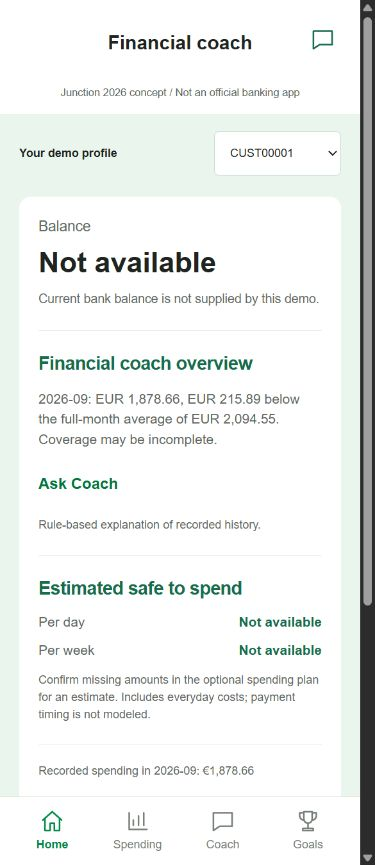
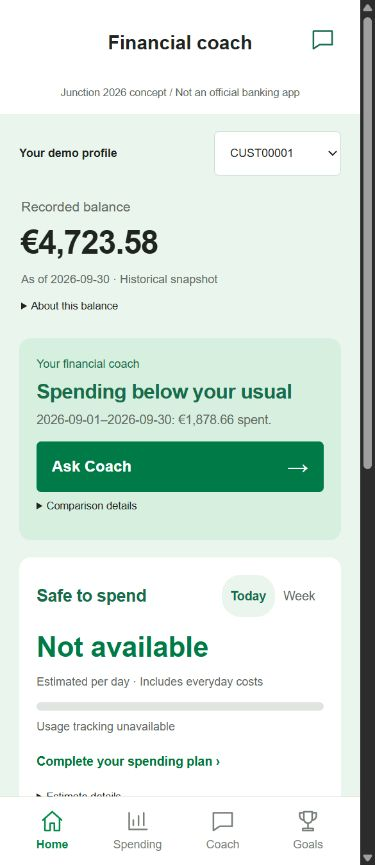
Connect compact Home to dated backend summaries

diff --git a/frontend/src/HomeSummary.jsx b/frontend/src/HomeSummary.jsx
@@ -1,0 +1,94 @@
+import React, { useState } from 'react';
+import { ResponsiveContainer, BarChart, Bar, XAxis, Tooltip, ReferenceLine } from 'recharts';
+
+const date = value => value ? value.slice(0, 10) : 'Date unavailable';
+
+export default function HomeSummary({ data, money, openCoach, onSpending, onPlan }) {
+  const [range, setRange] = useState('Today');
+  const balances = data['recorded-balances'];
+  const comparison = data['spending-comparison'];
+  const budget = data.budget;
+  const history = data['spending-history'];
+  const headlines = { below: 'Spending below your usual', above: 'Spending above your usual', equal: 'Spending matches your usual' };
+  const headline = headlines[comparison?.status] || 'Let’s explore your spending';
+  const allowance = range === 'Today' ? budget?.daily_eur : budget?.weekly_eur;
+  return <>
+    <section className="recorded-balance"><h1>Recorded balance</h1>
+      {balances?.simultaneous_total_eur != null ? <>
+        <strong>{money(balances.simultaneous_total_eur)}</strong>
+        <p className="fine">As of {date(balances.total_recorded_at)} · Historical snapshot</p>
+      </> : balances?.accounts?.length ? balances.accounts.map((account, index) => <div key={account.account_id}>
+        <p className="fine">Account {index + 1}</p><strong>{money(account.balance_eur)}</strong>
+        <p className="fine">As of {date(account.recorded_at)} · Historical snapshot</p>
+      </div>) : <><strong>Not available</strong><p className="fine">No recorded balance available.</p></>}
+      <details><summary>About this balance</summary><p>{balances?.note || 'This is not a live bank balance.'}</p>
+        {balances?.simultaneous_total_eur == null && <p>{balances?.total_unavailable_reason}</p>}</details>
+    </section>
+    <section className="coach-overview"><p className="coach-kicker">Your financial coach</p><h2>{headline}</h2>
+      <p>{comparison?.comparison && comparison?.baseline && headlines[comparison.status]
+        ? `${date(comparison.comparison.start)}–${date(comparison.comparison.end)}: ${money(comparison.comparison.spending_eur)} spent.`
+        : 'A comparison is unavailable; explore the spending we have recorded.'}</p>
+      <button className="primary coach-action" onClick={() => openCoach('Spending by category')}>Ask Coach <span>→</span></button>
+      <details><summary>Comparison details</summary>
+        <p>Prior-period average: {money(comparison?.baseline?.average_spending_eur)}.</p>
+        <p>Signed difference: {money(comparison?.difference_eur)}.</p>
+        <p>{comparison?.baseline && `${comparison.baseline.start}–${comparison.baseline.end}, `}
+          {comparison?.baseline?.period_count != null && `${comparison.baseline.period_count} prior periods.`}</p>
+        <p>{comparison?.note || comparison?.insufficient_data_reason || 'Comparison data is unavailable.'}</p>
+        <p>Rule-based demo. Historical spending is not a measure of goal progress.</p>
+      </details>
+    </section>
+    <section className="allowance-summary"><div className="allowance-heading"><h2>Safe to spend</h2>
+      <div className="allowance-toggle">{['Today', 'Week'].map(value =>
+        <button key={value} aria-pressed={range === value} onClick={() => setRange(value)}>{value}</button>)}</div></div>
+      <strong className="allowance-amount">{money(allowance)}</strong>
+      <p className="fine">Estimated {range === 'Today' ? 'per day' : 'per week'} · Includes everyday costs</p>
+      <div className="allowance-track" aria-hidden="true" />
+      <p className="fine">Usage tracking unavailable</p>
+      <button className="text-button" onClick={onPlan} disabled={!data.assumptions}>
+        {allowance == null ? 'Complete your spending plan' : 'Review your spending plan'} ›</button>
+      <details><summary>Estimate details</summary>
+        <p>{budget?.status === 'estimated' ? `Based on your confirmed ${budget.assumptions.horizon_days}-day plan.`
+          : 'All six planning amounts need confirmation. Blank amounts remain unknown.'}</p>
+        <p>Today selects the daily estimate, not a live remaining balance. Payment timing is not modeled.
+          No consumed fraction is available, so the neutral track does not show progress.</p>
+      </details>
+      {budget?.shortfall_eur > 0 && <p role="alert">Bills and reserve shortfall: {money(budget.shortfall_eur)}</p>}
+    </section>
+    <section className="home-chart"><div className="section-title"><h2>Spending history</h2>
+      <button className="text-button" onClick={onSpending}>View all ›</button></div>
+      {history?.periods?.length ? <>
+        <p className="fine">{history.periods[0].start}–{history.periods.at(-1).end} · Recorded {history.period} periods</p>
+        <div role="img" aria-label="Recorded spending bars with historical average and optional chart target">
+          <ResponsiveContainer width="100%" height={150}>
+            <BarChart data={history.periods} margin={{ top: 8, right: 4, left: 4, bottom: 0 }}>
+              <XAxis dataKey="start" tick={{ fontSize: 10 }} tickLine={false} axisLine={false} minTickGap={45} />
+              <Tooltip formatter={value => money(value)} />
+              <Bar dataKey="spending_eur" name="Recorded spending" fill="#008c45" radius={[3, 3, 0, 0]} />
+              {history.historical_average_eur != null && <ReferenceLine y={history.historical_average_eur}
+                stroke="#94662e" strokeDasharray="4 4" ifOverflow="extendDomain" />}
+              {history.budget_target_eur != null && <ReferenceLine y={Number(history.budget_target_eur)}
+                stroke="#3653a0" strokeDasharray="3 3" ifOverflow="extendDomain" />}
+            </BarChart>
+          </ResponsiveContainer>
+        </div><p className="fine">Dashed: historical average {money(history.historical_average_eur)}
+          {history.budget_target_eur != null && ` · Target ${money(history.budget_target_eur)}`}</p>
+      </> : <p className="fine">Spending history unavailable.</p>}
+      <button className="text-button" onClick={onSpending}>See where it went ›</button>
+    </section>
+  </>;
+}
+
+export function PlanningContext({ suggestions, money }) {
+  const labels = { income: 'Income', housing_utilities: 'Housing and utilities', food: 'Food', everyday_purchases: 'Everyday purchases' };
+  return <details className="planning-context"><summary>Historical context for your review</summary>
+    <p>Monthly observations, not confirmed future amounts. Food overlaps everyday purchases; do not add them together.</p>
+    {suggestions ? Object.entries(suggestions.observations).map(([key, observation]) => <div key={key}>
+      <h3>{labels[key]}</h3><p>{money(observation.average_monthly_eur)} per recorded month</p>
+      <p className="fine">{observation.source_period
+        ? `${observation.source_period.start}–${observation.source_period.end}` : 'Period unavailable'} · {observation.confidence} confidence</p>
+      <p className="fine">{observation.unavailable_reason || observation.limitations.join(' ')}</p>
+    </div>) : <p>Historical suggestions unavailable. Enter only amounts you can confirm.</p>}
+    <p className="fine">Amounts are not scaled to your planning period or copied into the form automatically.</p>
+  </details>;
+}

diff --git a/frontend/src/main.jsx b/frontend/src/main.jsx
@@ -4,6 +4,7 @@ import { ResponsiveContainer, BarChart, Bar, XAxis, YAxis, Tooltip, ReferenceLin
 import './style.css';
 import Coach from './Coach';
 import Icon from './Icon';
+import HomeSummary, { PlanningContext } from './HomeSummary';
 
 const money = value => value == null ? 'Not available' : new Intl.NumberFormat('en-FI', {
   style: 'currency', currency: 'EUR', maximumFractionDigits: 2,
@@ -29,10 +30,11 @@ const planningFields = [
   ['monthly_budget_eur', 'Monthly chart target (optional)'],
 ];
 
-function PlanningForm({ assumptions, busy, onSave }) {
-  return <details className="planning"><summary>Optional spending plan</summary><section><h2>Confirm your spending plan</h2>
+function PlanningForm({ assumptions, suggestions, busy, onSave }) {
+  return <details className="planning" id="spending-plan"><summary>Optional spending plan</summary><section><h2>Confirm your spending plan</h2>
     <p>All amounts cover the same planning period. Enter zero where appropriate; blank means unknown.
       Do not include income already held in accessible funds. Confirm you can pay bills before everyday spending starts.</p>
+    <PlanningContext suggestions={suggestions} money={money} />
     <form onSubmit={event => {
       event.preventDefault();
       const values = new FormData(event.currentTarget);
@@ -90,22 +92,14 @@ function App() {
     if (!customer) return;
     const controller = new AbortController();
     setData({}); setError(''); setAnalysis(null);
-    ['spending', 'spending-history', 'budget', 'goals', 'assumptions', 'mortgages'].forEach(resource => {
-      const query = resource === 'spending-history' ? `?period=${period.toLowerCase()}` : '';
+    const resources = ['spending', 'spending-history', 'budget', 'goals', 'assumptions', 'mortgages',
+      'recorded-balances', 'spending-comparison', 'planning-suggestions'];
+    resources.forEach(resource => {
+      const query = ['spending-history', 'spending-comparison'].includes(resource) ? `?period=${period.toLowerCase()}` : '';
       api(`customers/${customer}/${resource}${query}`, { signal: controller.signal })
         .then(result => setData(old => ({ ...old, [resource]: result })))
         .catch(e => { if (e.name !== 'AbortError') setError(e.message); });
     });
-    return () => controller.abort();
-  }, [customer, period, reload]);
-  useEffect(() => {
-    if (!customer) return;
-    const controller = new AbortController();
-    api(`customers/${customer}/coach`, {
-      method: 'POST', headers: { 'Content-Type': 'application/json' }, signal: controller.signal,
-      body: JSON.stringify({ question: 'Spending vs historical average' }),
-    }).then(result => setData(old => ({ ...old, coachOverview: result.text })))
-      .catch(() => { /* Keep the unavailable overview fallback without blocking other sections. */ });
     return () => controller.abort();
   }, [customer, period, reload]);
   async function createGoal(event) {
@@ -143,7 +137,7 @@ function App() {
     } catch (e) { setError(e.message); } finally { setBusy(false); }
   }
   function openCoach(question = '') { setCoachQuestion(question); setPage('Coach'); }
-  const spending = data.spending;
+
   const history = data['spending-history'];
   const points = history?.periods;
   return <div className="app">
@@ -161,33 +155,16 @@ function App() {
       {error && <div className="error" role="alert">{error}<button disabled={busy} onClick={() => setReload(reload + 1)}>Try again</button></div>}
       {!customer && !error && <p role="status">Loading your profiles…</p>}
       {page === 'Home' && <>
-        <div className="home-overview">
-          <section className="home-balance"><h1>Balance</h1><strong>Not available</strong>
-            <p>Current bank balance is not supplied by this demo.</p></section>
-          <section className="home-coach"><h2>Financial coach overview</h2>
-            <p>{data.coachOverview || 'A historical comparison is not available yet. You can still explore recorded spending.'}</p>
-            <button className="text-button" onClick={() => openCoach('Spending vs historical average')}>Ask Coach</button>
-            <p className="fine">Rule-based explanation of recorded history.</p></section>
-          <section className="home-allowance"><h2>Estimated safe to spend</h2>
-            <p className="allowance-line">Per day <strong>{money(data.budget?.daily_eur)}</strong></p>
-            <p className="allowance-line">Per week <strong>{money(data.budget?.weekly_eur)}</strong></p>
-            <p className="fine">{data.budget?.status === 'estimated'
-              ? `Based on your confirmed ${data.budget.assumptions.horizon_days}-day plan.`
-              : 'Confirm missing amounts in the optional spending plan for an estimate.'}
-              {' '}Includes everyday costs; payment timing is not modeled.</p>
-            {data.budget?.shortfall_eur > 0 &&
-              <p role="alert">Bills and reserve shortfall: {money(data.budget.shortfall_eur)}</p>}
-          </section>
-          <div className="home-spending-link">
-            {spending?.month && <p className="fine">Recorded spending in {spending.month}: {money(spending.spending_eur)}</p>}
-            <button className="text-button" onClick={() => setPage('Spending')}>See where it went &rsaquo;</button>
-          </div>
-        </div>
+        <HomeSummary key={customer} data={data} money={money} openCoach={openCoach} onSpending={() => setPage('Spending')}
+          onPlan={() => {
+            const plan = document.getElementById('spending-plan');
+            if (plan) { plan.open = true; plan.scrollIntoView({ behavior: 'smooth', block: 'start' }); }
+          }} />
         <button className="home-goals text-button" onClick={() => setPage('Goals')}>Goals (optional) &rsaquo;</button>
         {data.assumptions && <PlanningForm key={`${customer}-${reload}`} assumptions={data.assumptions}
-          busy={busy} onSave={savePlan} />}
+          suggestions={data['planning-suggestions']} busy={busy} onSave={savePlan} />}
         <details className="supporting"><summary>Account and mortgage information</summary><section>
-          <p>Current account balance: Not available.</p><h2>Mortgage information</h2>
+          <p>Recorded balances are historical snapshots, not current available funds.</p><h2>Mortgage information</h2>
           <p>{data.mortgages ? (data.mortgages.applications.length
             ? 'Linked mortgage application data available.' : 'No linked mortgage application.') : 'Loading mortgage information…'}</p>
           <p>{data.mortgages?.note}</p></section></details>

diff --git a/frontend/src/style.css b/frontend/src/style.css
@@ -150,3 +150,30 @@ footer { color: #606b63; }
 .home-spending-link { padding: 18px 0; }
 .home-spending-link p { margin: 0 0 4px; }
 .home-goals { display: block; padding: 16px 0 0; }
+.recorded-balance { background: transparent; padding: 24px 2px 16px; margin-bottom: 0; }
+.recorded-balance h1 { font-size: 14px; font-weight: 400; color: #626862; margin: 0 0 4px; letter-spacing: 0; }
+.recorded-balance strong { font-size: 34px; letter-spacing: -1px; color: #202421; }
+.recorded-balance p { margin: 4px 0; }
+.recorded-balance summary, .coach-overview summary, .allowance-summary summary { font-size: 11px; min-height: 32px; padding: 6px 0; }
+.coach-overview { background: #d7efdf; padding: 18px; }
+.coach-kicker { font-size: 12px; color: #176d4b; margin: 0 0 6px; }
+.coach-overview h2 { font-size: 21px; margin-bottom: 6px; }
+.coach-overview > p:not(.coach-kicker) { font-size: 13px; margin: 6px 0 12px; }
+.coach-action { display: flex; justify-content: space-between; align-items: center; margin: 0; padding: 10px 16px; min-height: 44px; }
+.coach-action span { font-size: 22px; }
+.allowance-summary { padding: 18px; }
+.allowance-heading { display: flex; justify-content: space-between; align-items: center; gap: 8px; }
+.allowance-heading h2 { font-size: 18px; margin: 0; }
+.allowance-toggle { display: flex; flex-shrink: 0; }
+.allowance-toggle button { background: transparent; border: 0; color: #626862; padding: 5px 9px; font-size: 13px; }
+.allowance-toggle button[aria-pressed='true'] { background: #eaf6ed; color: #176d4b; border-radius: 20px; font-weight: bold; }
+.allowance-amount { display: block; font-size: 29px; color: #007b48; margin-top: 10px; }
+.allowance-summary > p { margin: 5px 0; }
+.allowance-track { height: 9px; border-radius: 20px; background: #e0e5e1; margin: 12px 0 8px; }
+.allowance-summary > .text-button { font-size: 13px; text-align: left; }
+.home-chart h2 { font-size: 19px; }
+.home-chart .text-button { font-size: 13px; }
+.home-chart .section-title { align-items: center; }
+.home-chart .section-title h2 { margin-bottom: 0; }
+.planning-context { border-bottom: 1px solid #dfe5df; margin-bottom: 12px; }
+#spending-plan { scroll-margin-top: 16px; }

diff --git a/frontend/src/Coach.jsx b/frontend/src/Coach.jsx
@@ -41,7 +41,7 @@ export default function Coach({ customer, api, money, onSaved, initialQuestion =
     <p className="coach-label">Rule-based demo coach</p>
     <p>Explore recorded categories, compare with your usual spending or check an allowance.</p>
     <p className="fine">Uses English keywords and prepared explanations, not a live AI model.
-      What-if previews can add a goal; category reductions are not supported yet.
+      This chat previews adding a goal; the category-reduction calculator is not connected here.
       Estimates need a confirmed optional Home plan.</p>
     <div className="suggestions">{suggestions.map(text =>
       <button key={text} disabled={busy} onClick={() => ask(text)}>{text}</button>)}</div>

diff --git a/frontend/qa/HANDOFF.md b/frontend/qa/HANDOFF.md
@@ -1,5 +1,59 @@
 # S-mobiili-inspired coaching UI
 
+## Current handoff: data-backed compact Home (14 November 2026)
+
+Implemented after the PM merged `origin/main` b9a6e39 into this UI branch (merge b30f56c).
+This section supersedes the older Home mappings and missing-balance blocker below.
+
+- Home reads `/recorded-balances`, labels the amount Recorded balance and shows its as-of date.
+  Null simultaneous totals display individual observed accounts; no client summation or assumptions substitution.
+- Tinted Coach card has a short status headline and one dated spending sentence from `/spending-comparison`.
+  Prior baseline/difference/limitations are optional details. Ask Coach is a full-width button into category exploration.
+  Existing chat averages have older semantics, so Home does not source its comparison from raw chat text.
+- Today/Week chooses backend daily/weekly estimates. The horizontal track is neutral with no filled fraction,
+  progressbar role or percentage; usage is explicitly unavailable. Estimate context includes everyday costs.
+- A separate compact historical bar chart appears below the allowance, with average/optional target lines.
+  Spending retains the full existing charts. Goals stay secondary, with no saved-progress claim.
+- `/planning-suggestions` supplies optional historical review context, dates, confidence and limitations.
+  No input is automatically copied, scaled or confirmed; food/everyday overlap is called out.
+  All six inputs and full-object confirmation semantics remain intact.
+- Restarted the isolated backend from this merged checkout on 8018. UI preview stays available on 5178.
+  Restart after testing cleared temporary goals and zero-valued test assumptions.
+
+Verification in this pass:
+
+- Final production build: PASS, 413 modules; existing >500 kB bundle warning remains.
+- `node frontend/qa/check-home.cjs`: PASS. Uses installed esbuild/React, no added dependencies.
+  Rendering fixtures cover null/zero balance and allowance, separate accounts with missing observations,
+  above/below/equal comparisons and absence of invented progress semantics.
+- Live browser: both real synthetic profiles showed their own historical balance/date and structured comparison.
+  Actual CSS viewport widths 360/390, document widths 345/375 with scrollbar; no horizontal overflow.
+- Today/Week retained unknown values; six explicitly entered zeros produced EUR 0.00 in both selections.
+  Historical suggestions displayed while inputs stayed blank before confirmation.
+- Saved test period 45, repeat=true and targets 70/300; resaved with Advanced collapsed.
+  API readback verified every advanced value survived. Recorded balance was not replaced by available funds=0.
+- Ask Coach opened a prefilled category question and returned real categories.
+  Goal preview required confirmation; confirmed test goal appeared in Goals.
+  Home View all opened Spending with bars, average and categories.
+- Stopped backend and reloaded: fetch error, unavailable balance/comparison/allowance and disabled planning action.
+  Restarted and pressed Retry: new endpoint data recovered.
+- Updated `home-360.jpg`, `home-390.jpg`; added `home-chart-390.jpg` showing the distinct historical chart.
+
+Not verified in browser: synthetic multi-account/zero-bank-balance cases (covered by rendering fixtures),
+individual-endpoint failure injection, physical devices, screen reader operation or delayed-request races.
+No backend code/tests or financial policy changed. The test harness initially failed due to a missing module
+filename; that harness issue was fixed and its final run passes.
+
+Remaining API/product requests:
+
+1. A meaningful allowance fill requires a backend-defined same-period denominator and consumed/remaining amount,
+   with period start/end, as-of timestamp, confirmed baseline and unknown/zero semantics. Current allowance values
+   alone cannot provide a usage fraction. UI intentionally shows no actual-progress fill.
+2. Conversational plan negotiation and goal-timeline impact remain absent. Historical suggestions require review.
+3. `/category-reduction` now exists, but this Home-focused change does not add its explicit category/period form.
+   Coach copy distinguishes the existing keyword chat from that unwired calculator. It must not imply the backend
+   lacks category reduction or promise goal impact (the endpoint returns null goal_impact).
+
 ## Follow-up: simplified Home (14 November 2026)
 
 Supersedes the original Home mapping below. Home now presents one vertical surface:
